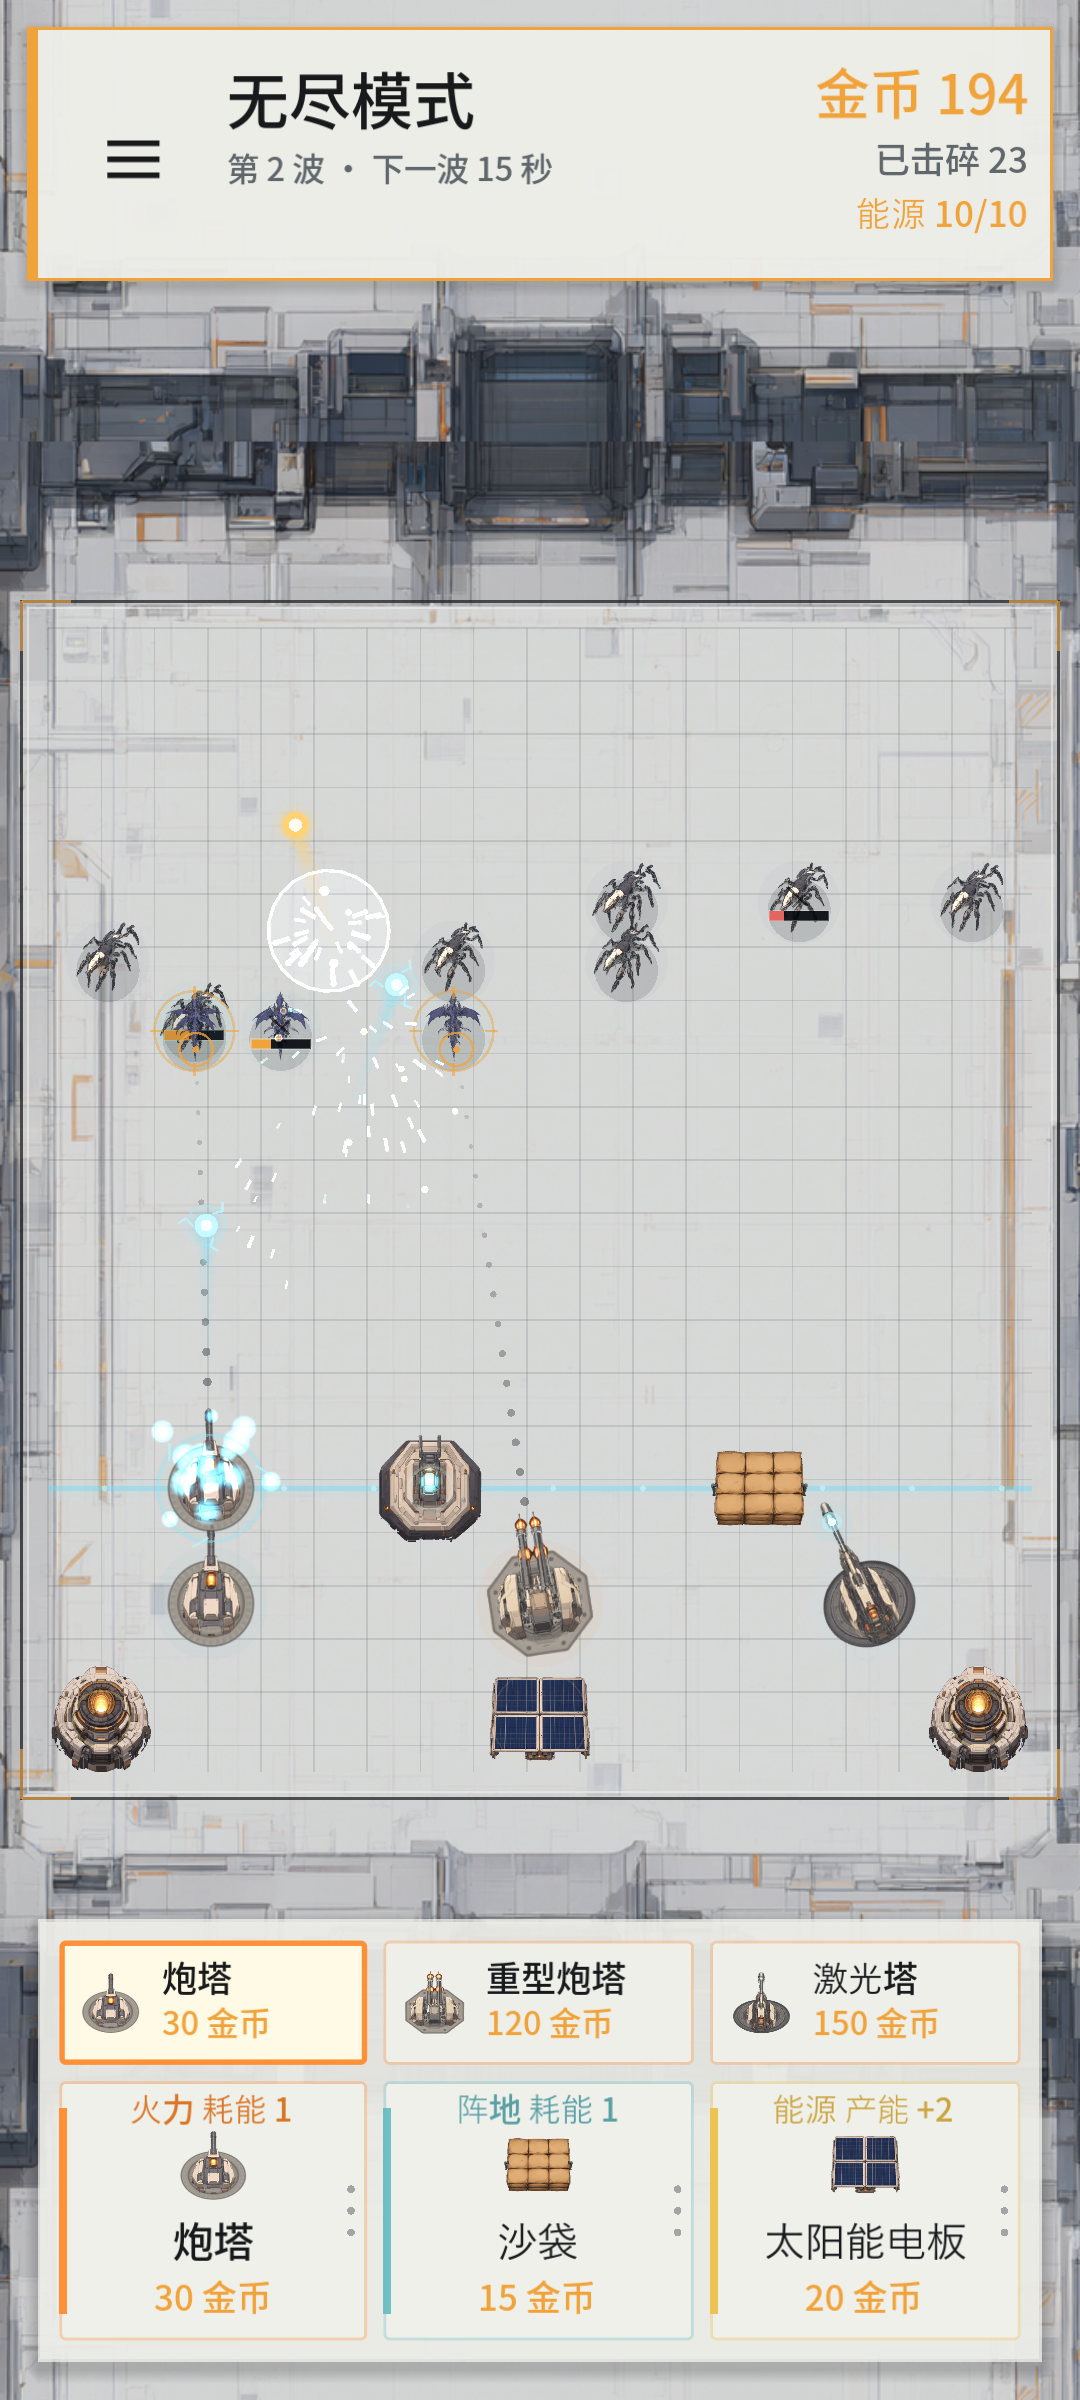
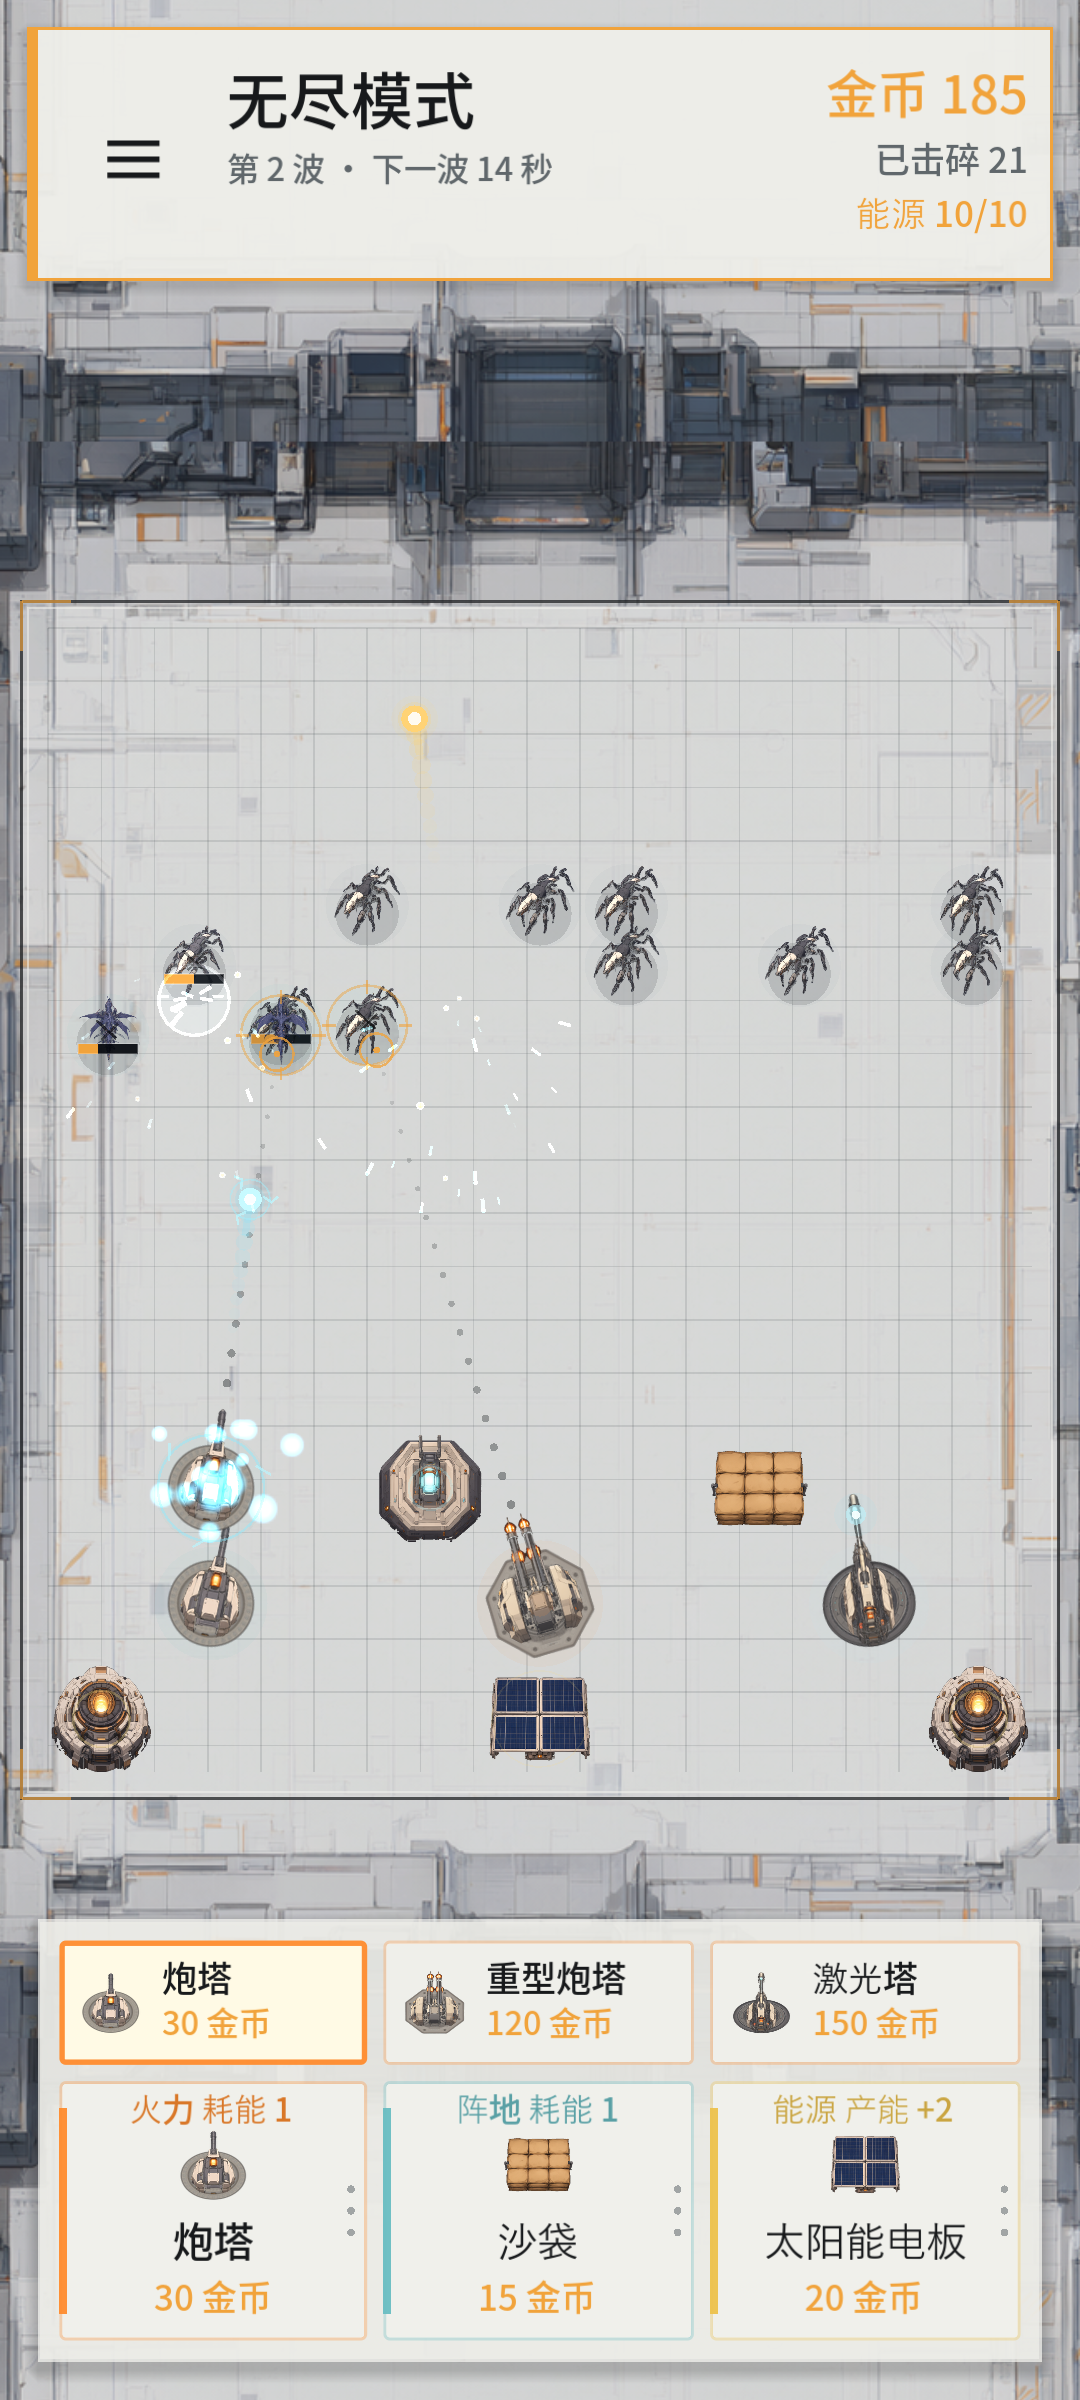
feat: 射程格子只在部署与选中时显示
- 移除压缩塔光束线和二次确认辅助线，保留朝向箭头

- 火力绿色射程格只在拖拽与点击查看时显示，部署后自动隐藏

- 更新预览截图与 README

diff --git a/README.md b/README.md
@@ -79,7 +79,7 @@
 - 压缩塔的覆盖范围是穿过自身、沿朝向延伸的整条直线；只有靠近这条直线的火力建筑吃到增益
 - 电击弹在命中时使用蓝白火花；激光塔吃到压缩塔增益时伤害同样翻倍
 - 敌人只会被阵地建筑拦截，因此沙袋/压缩塔要放在火力前面；被摧毁的阵地会从场上移除
-- 拖拽时以绿色格子标出火力建筑的圆形射程，当前格用橙色描边；压缩塔不铺绿色格子，只用一条橙色细线指示覆盖方向；金币不足时卡片变暗且无法开始拖拽
+- 拖拽时以绿色格子标出火力建筑的圆形射程，当前格用橙色描边；压缩塔不铺绿色格子也不画线，只用朝向箭头指示覆盖方向；金币不足时卡片变暗且无法开始拖拽
 - 部署期间战场时间降到 28%，屏幕四周压暗，确认或取消后恢复；沉浸感更强，也不会在摆建筑时被怪物偷血
 - 射程判定完全按格子，不再画圆弧；预览绿格、选中建筑绿格和索敌范围使用同一套格子
 - 点击已放置的建筑打开聚焦面板，显示属性与已发射数量；点击空白处或右上角 `×` 关闭
@@ -88,7 +88,7 @@
 
 ![落格后的二次确认：圆形射程、当前格和朝向箭头](confirm_preview.png)
 
-![压缩塔的二次确认：橙色细线指示方向，不再铺满绿色格子](orientation_preview.png)
+![压缩塔的二次确认：只用朝向箭头指示方向](orientation_preview.png)
 
 ## 主界面与设置
 
